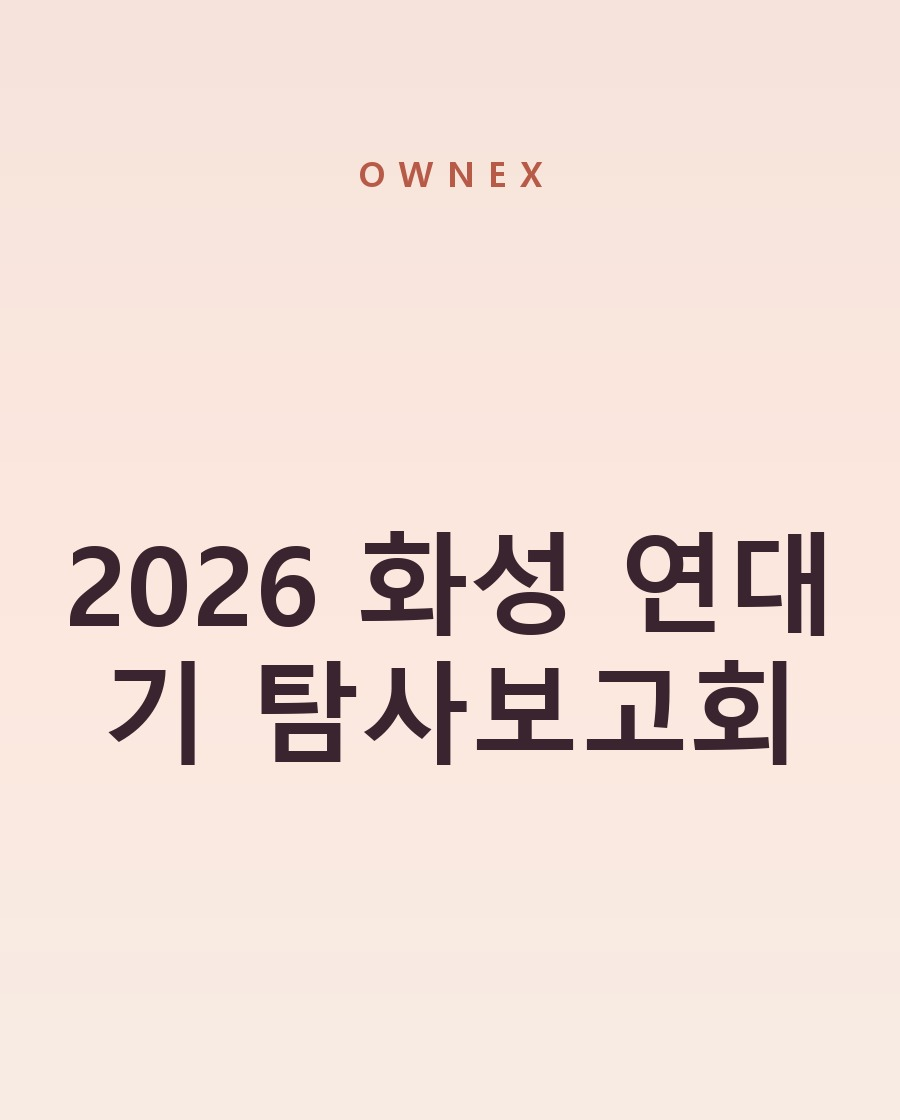
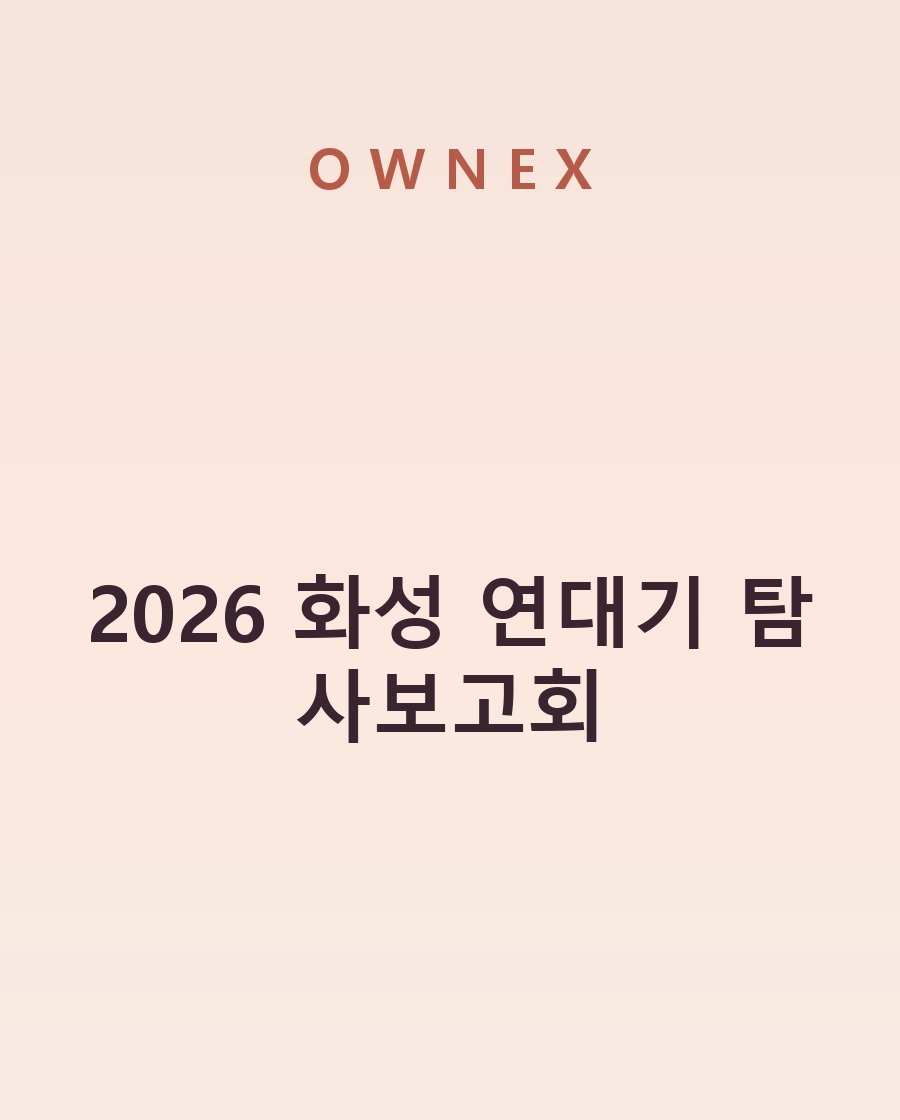
Enlarge OWNEX on designed cards and slightly reduce the show title.

Changed region(s): [[0.0622, 0.4688, 0.9333, 0.6875], [0.3422, 0.125, 0.6533, 0.1875]]

diff --git a/index.html b/index.html
@@ -35,7 +35,7 @@
   <link rel="preconnect" href="https://fonts.googleapis.com" />
   <link rel="preconnect" href="https://fonts.gstatic.com" crossorigin />
   <link href="https://fonts.googleapis.com/css2?family=Cormorant+Garamond:ital,wght@0,500;0,600;1,400&family=Great+Vibes&family=Noto+Sans+KR:wght@400;500;600&family=Noto+Serif+KR:wght@500;600;700&display=swap" rel="stylesheet" />
-  <link rel="stylesheet" href="styles.css?v=fix71" />
+  <link rel="stylesheet" href="styles.css?v=fix72" />
   <style>
     body { margin: 0; min-height: 100vh; background: var(--bg, #351e28); color: var(--ink, #f6efe6); font-family: "Noto Sans KR", "Apple SD Gothic Neo", "Malgun Gothic", sans-serif; }
     #front-row:not([hidden]) {
@@ -1124,7 +1124,7 @@
       }
     })();
   </script>
-  <script src="data.js?v=fix71"></script>
-  <script src="app.js?v=fix71"></script>
+  <script src="data.js?v=fix72"></script>
+  <script src="app.js?v=fix72"></script>
 </body>
 </html>

diff --git a/styles.css b/styles.css
@@ -882,17 +882,17 @@ body.open .gcal-icon {
 .name-art.designed i,
 .poster.designed i {
   font-style: normal;
-  font-size: 0.95rem;
-  letter-spacing: 0.22em;
+  font-size: 1.35rem;
+  letter-spacing: 0.28em;
   color: var(--paper-hover);
 }
 
 .name-art.designed b,
 .poster.designed b {
   font-family: "Noto Serif KR", "Cormorant Garamond", serif;
-  font-size: clamp(1.7rem, 6.2vw, 2.35rem);
+  font-size: clamp(1.35rem, 4.6vw, 1.85rem);
   font-weight: 600;
-  line-height: 1.28;
+  line-height: 1.3;
   letter-spacing: -0.03em;
 }
 
@@ -902,7 +902,7 @@ body.open .gcal-icon {
 }
 
 .poster.designed b {
-  font-size: clamp(2.4rem, 6vw, 3.6rem);
+  font-size: clamp(1.85rem, 4.6vw, 2.7rem);
 }
 
 .name-art.designed-img,

diff --git a/app.js b/app.js
@@ -1984,7 +1984,7 @@
     });
   }
 
-  const ASSET_VER = "20260915a";
+  const ASSET_VER = "20260915b";
 
   function assetUrl(src) {
     const value = String(src || "");

diff --git a/daily/util/web_posters.py b/daily/util/web_posters.py
@@ -111,23 +111,23 @@ def _designed_canvas(title: str) -> Image.Image:
         t = y / max(height - 1, 1)
         color = _blend(top, mid, t / 0.55) if t < 0.55 else _blend(mid, bottom, (t - 0.55) / 0.45)
         draw.line((0, y, width, y), fill=color)
-    brand = _font(34, bold=True)
+    brand = _font(56, bold=True)
     label = "OWNEX"
-    gap = 14
+    gap = 18
     brand_w = sum(draw.textlength(ch, font=brand) for ch in label) + gap * (len(label) - 1)
     x = (width - brand_w) / 2
     for ch in label:
-        draw.text((x, 150), ch, font=brand, fill=mark)
+        draw.text((x, 128), ch, font=brand, fill=mark)
         x += draw.textlength(ch, font=brand) + gap
     clean = _designed_title(title)
-    max_w, max_h = width - 100, 680
-    title_font = _font(52, bold=True)
+    max_w, max_h = width - 120, 560
+    title_font = _font(46, bold=True)
     lines = _wrap(draw, clean, title_font, max_w, 6)
-    line_h = 64
-    for size in range(110, 43, -4):
+    line_h = 56
+    for size in range(78, 39, -3):
         trial_font = _font(size, bold=True)
         trial_lines = _wrap(draw, clean, trial_font, max_w, 20)
-        trial_h = int(size * 1.18)
+        trial_h = int(size * 1.2)
         widest = max((draw.textlength(line, font=trial_font) for line in trial_lines), default=0)
         if len(trial_lines) > 5:
             continue
@@ -137,7 +137,7 @@ def _designed_canvas(title: str) -> Image.Image:
             line_h = trial_h
             break
     block_h = len(lines) * line_h
-    y = 150 + ((height - 150) - block_h) / 2
+    y = 220 + ((height - 260) - block_h) / 2
     for line in lines:
         draw.text(((width - draw.textlength(line, font=title_font)) / 2, y), line, font=title_font, fill=ink)
         y += line_h
